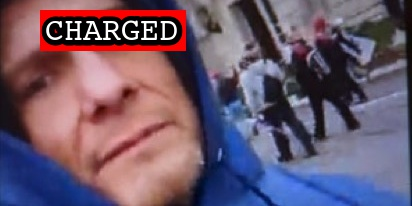
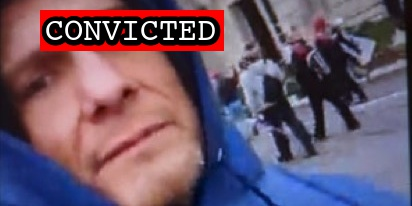
Latest conviction

Changed region(s): [[0.1456, 0.0291, 0.5534, 0.2621]]

diff --git a/docs/_suspects/kenneth-rader.md b/docs/_suspects/kenneth-rader.md
@@ -4,15 +4,17 @@ lastName: Rader
 hashtag:
 aka:
 residence: Iowa
-status: Charged
+status: Convicted
 date: 2022-01-11
 charged: 2022-01-11
 indicted:
-convicted:
+convicted: 2022-06-07
+acquitted:
 sentenced:
 dismissed:
 deceased:
 plea_hearing: 2022-06-07
+trial_date:
 sentencing:
 age: 54
 occupation: Viera High School P.E. Teacher
@@ -25,7 +27,7 @@ courtroom:
 courthouse:
 raid:
 perpwalk:
-quote: "We’re not done! ... Watch what ‘we’ do after Trump is gone."
+quote: "When the judge says you're going to prison, I'm going to say, no disrespect, your honor, but I made peace with God before I left, so let's do this."
 title: Kenneth Rader charged on January 11, 2022
 description: Click for latest case details. Suspects innocent until proven guilty.
 author: seditiontrack
@@ -34,9 +36,13 @@ published: true
 caseNumber: 1:22-mj-000
 videos:
 charges:
+- code: 40 USC § 5104(e)(2)(G)
+  title: Parading, demonstrating or picketing in a Capitol building
+  url: https://www.law.cornell.edu/uscode/text/40/5104
+  felony: false
 sentence:
 ---
-
 - [News Report](https://www.mynews13.com/fl/orlando/news/2021/07/07/kenneth-reda-viera-high-school-teacher-charged-in-capitol-riot-investigation)
 - [Statement of Facts](https://www.justice.gov/usao-dc/case-multi-defendant/file/1481456/download)
 - [Information](https://extremism.gwu.edu/sites/g/files/zaxdzs2191/f/Kenneth%20Rader%20Information.pdf)
+- [Statement of Offense](https://storage.courtlistener.com/recap/gov.uscourts.dcd.240373/gov.uscourts.dcd.240373.21.0.pdf)

diff --git a/docs/_suspects/ryan-ashlock.md b/docs/_suspects/ryan-ashlock.md
@@ -37,6 +37,6 @@ charges:
 sentence:
 ---
 
-- [News Report](https://www.wral.com/kansas-man-linked-to-proud-boys-arrested-in-capitol-riot/19540752/)
+- [News Report](https://apnews.com/article/donald-trump-capitol-siege-kansas-city-kansas-riots-df58bb36cd2a6d74438f94af2c03451f)
 - [Statement of Facts](https://www.justice.gov/usao-dc/case-multi-defendant/file/1371281/download)
 - [Indictment](https://www.justice.gov/usao-dc/case-multi-defendant/file/1377826/download)
